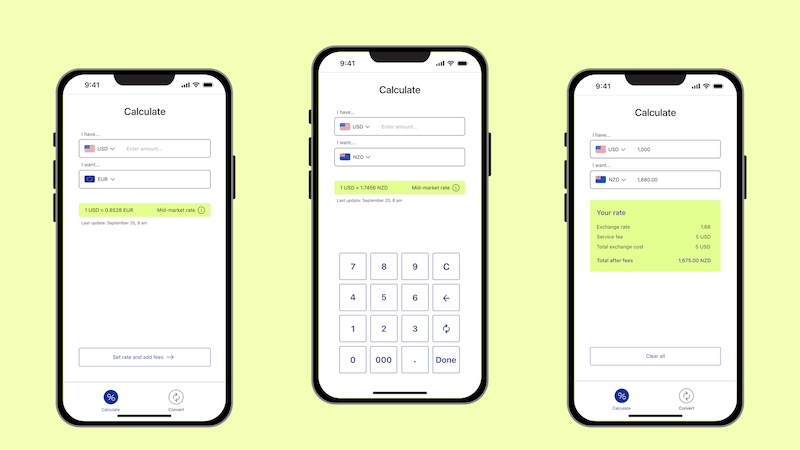
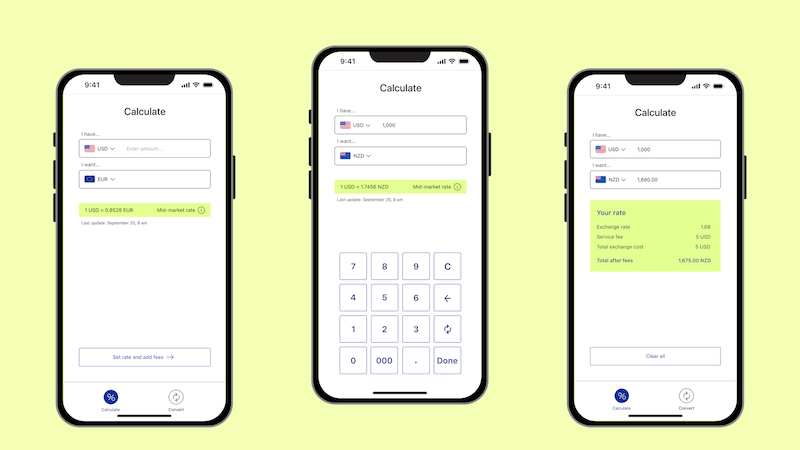
project images
added images & filled out design phase content

diff --git a/src/projects/project-one.html b/src/projects/project-one.html
@@ -41,7 +41,7 @@
            <picture>
             <source media="(min-width: 1920px)" srcset="../images/projects/project1/project-one-large.png 1x, ../images/projects/project1/project-one-xlarge.png 2x"/>
             <source media="(min-width: 768px)" srcset="../images/projects/project1/project-one-medium.png 1x, ../images/projects/project1/project-one-large.png 2x"/>
-            <img src="path/image-name-small.png" srcset="../images/projects/project1/project-one-small.png 1x, ../images/projects/project1/project-one-medium.png 2x"
+            <img src="../images/projects/project1/project-one-small.png" srcset="../images/projects/project1/project-one-small.png 1x, ../images/projects/project1/project-one-medium.png 2x"
               alt="Project one hero image"
               loading="lazy"
               class="w-full h-auto"
@@ -119,7 +119,7 @@
 
           <div class="subsection space-y-4">
             <h4>Empathy Map</h4>
-            <p>One of the ways I tried to understand...</p>
+            <p>Created an empathy map to capture what users say, think, feel, and do when navigating currency exchange. Patterns of uncertainty, mental math frustration, and fear of hidden fees directly informed the app’s focus on clarity and cost transparency.</p>
               <picture class="lightbox-trigger">
                 <source media="(min-width: 1920px)" srcset="../images/projects/project1/empathy-map-large.png 1x, ../images/projects/project1/empathy-map-xlarge.png 2x"/>
                 <source media="(min-width: 768px)" srcset="../images/projects/project1/empathy-map-medium.png 1x, ../images/projects/project1/empathy-map-large.png 2x"/>
@@ -131,7 +131,7 @@
           </div>
           <div class="subsection space-y-4">
             <h4>User Flow</h4>
-            <p>Upon opening the app...</p>
+            <p>Mapped the core decision path from app entry to conversion completion. The flow addresses two critical questions: “Is my currency available?” and “Do I understand the mid-market rate?” — reducing friction and uncertainty before users proceed.</p>
               <picture class="lightbox-trigger">
                 <source media="(min-width: 1920px)" srcset="../images/projects/project1/user-flow-large.png 1x, ../images/projects/project1/user-flow-xlarge.png 2x"/>
                 <source media="(min-width: 768px)" srcset="../images/projects/project1/user-flow-medium.png 1x, ../images/projects/project1/user-flow-large.png 2x"/>
@@ -148,7 +148,7 @@
           <h3 id="design-phase">Design Phase</h3>
           <div class="subsection space-y-4">
             <h4 id="sketches">Sketches</h4>
-            <p>The process below begins...</p>
+            <p>Started with rapid hand-drawn sketches to map core screens and test information hierarchy. Early exploration allowed for fast iteration before committing to higher-fidelity designs.</p>
               <picture class="lightbox-trigger">
                 <source media="(min-width: 1920px)" srcset="../images/projects/project1/sketches-large.png 1x, ../images/projects/project1/sketches-xlarge.png 2x"/>
                 <source media="(min-width: 768px)" srcset="../images/projects/project1/sketches-medium.png 1x, ../images/projects/project1/sketches-large.png 2x"/>
@@ -161,7 +161,8 @@
 
           <div class="subsection space-y-4">
             <h4 id="wireframes">Wireframes & Prototypes</h4>
-            <p>I brought my idea to an interactive...</p>
+            <p>Developed interactive wireframes in Figma for both core experiences: Convert and Calculate. The prototypes included currency selection, fee inputs, mid-market rate education, and ranked transfer options.</p>
+            <p>These wireframes went through multiple iterations and were used in moderated usability testing sessions. The screens shown reflect the latest refined versions.</p>
               <picture class="lightbox-trigger">
                 <source media="(min-width: 1920px)" srcset="../images/projects/project1/convert-wireframe-large.png 1x, ../images/projects/project1/convert-wireframe-xlarge.png 2x"/>
                 <source media="(min-width: 768px)" srcset="../images/projects/project1/convert-wireframe-medium.png 1x, ../images/projects/project1/convert-wireframe-large.png 2x"/>
@@ -181,7 +182,10 @@
           </div>
           <div class="subsection space-y-4">
             <h4 id="usability-study">Usability Study</h4>
-            <p>I conducted a user testing session...</p>
+            <p>Conducted two rounds of moderated usability testing with four participants using interactive wireframe prototypes.</p>
+            <p>Participants were asked to complete two core tasks per flow while thinking aloud. I observed silently to understand their natural decision-making process, then followed up with targeted questions about moments of confusion or hesitation.</p>
+            <p>After the first round, I redesigned key screens and tested the revised versions with the same participants using identical tasks. Comparing reactions helped identify where clarity improved and where friction remained.</p>
+            <p>Final wireframes were completed only after validation — visual design was intentionally introduced last to ensure usability before aesthetics.</p>
           </div>
         </div>
       </section>
@@ -190,15 +194,36 @@
       <section class="results space-y-8">
         <h2 id="results">Results</h2>
         
-        <div class="iterations mt-8 space-y-10">
-          <h3>Major Design Iterations</h3>
+        <div class="decisions mt-8 space-y-10">
+          <h3>Key Product Decisions</h3>
           <div class="subsection space-y-4">
-            <h4>Iteration 1. Choosing MVP over 'the perfect app'</h4>
-            <p>Content here</p>
+            <h4>Decision 1: Prioritizing MVP Over Feature Expansion</h4>
+            <p>During interviews, users requested expanded features — such as safety ratings for exchange locations, translation support at kiosks, and nearby exchange maps.</p>
+            <p>While valuable, these ideas introduced significant scope complexity. Through synthesis, I identified the core unmet need: trust in exchange rates and final totals.</p>
+            <p>I intentionally narrowed the product to two essential experiences — Convert and Calculate — focusing on transparency and clarity first.</p>
+            <p>Rather than building a feature-heavy ecosystem, I prioritized solving one problem exceptionally well: making the true cost of currency exchange immediately understandable.</p>
+            <p>This MVP approach supports faster iteration, clearer positioning, and a stronger foundation for future expansion.</p>
           </div>
           <div class="subsection space-y-4">
-            <h4>Iteration 2. Progress bar</h4>
-            <p>Content here</p>
+            <h4>Decision 2: Replacing the Progress Bar with Stronger Defaults</h4>
+            <p>After initial testing, I introduced a progress bar to clarify how many steps remained in the conversion flow.</p>
+            <p>However, in the second round of testing, 3 out of 4 participants did not notice the progress indicator, and the fourth did not rely on it to complete tasks. The addition did not meaningfully improve confidence.</p>
+            <p>Instead of adding navigational cues, I shifted focus to improving input clarity.</p>
+            <p>Key refinements:</p>
+             <ul class="list-disc pl-6 space-y-1 text-base font-light text-slate-600 leading-relaxed">
+              <li>Pre-selected default currencies with visible flags (replacing empty placeholders)</li>
+              <li>Pre-filled the amount field with a realistic default (1,000)</li>
+            </ul>
+            <p>Testing revealed that users respond more confidently to editable defaults than to empty inputs. A visible starting state signals what action to take next more effectively than instructional text.</p>
+            <p>The final design removed the progress bar entirely and relied on stronger visual affordances instead.</p>
+              <picture class="lightbox-trigger">
+                <source media="(min-width: 1920px)" srcset="../images/projects/project1/progress-bar-large.png 1x, ../images/projects/project1/progress-bar-xlarge.png 2x"/>
+                <source media="(min-width: 768px)" srcset="../images/projects/project1/progress-bar-medium.png 1x, ../images/projects/project1/progress-bar-large.png 2x"/>
+                <img src="../images/projects/project1/progress-bar-small.png" srcset="../images/projects/project1/progress-bar-small.png 1x, ../images/projects/project1/progress-bar-medium.png 2x"
+                  alt="Wireframe of the calculate page"
+                  loading="lazy"
+                  class="w-full h-auto rounded-lg shadow-md"/>
+              </picture>
           </div>
         </div>
 
@@ -212,12 +237,21 @@
 
         <div class="subsection space-y-4 mt-10">
           <h4>Product Successes</h4>
-          <p>text here</p>
+          <ul class="list-disc pl-6 space-y-1 text-base font-light text-slate-600 leading-relaxed">
+            <li>Users clearly understood the distinction between mid-market rate and final amount after fees</li>
+            <li>Default currency and amount inputs improved task completion confidence</li>
+            <li>Ranking transfer methods by total cost reduced comparison friction</li>
+            <li>Transparent fee breakdown increased trust and reduced cross-checking behavior</li>
+            <li>The Calculate feature supported quick, in-the-moment decisions abroad</li>
+          </ul>
         </div>
 
         <div class="subsection space-y-4">
           <h4>What I Learned</h4>
-          <p>Product feedback will always surprise...</p>
+          <p>User feedback will always challenge your assumptions.</p>
+          <p>Features that seem helpful — like progress indicators or expanded functionality — don’t always solve the real problem. In this case, clarity improved not by adding more, but by simplifying inputs and strengthening default states.</p>
+          <p>Testing before adding visual polish reinforced an important principle: usability must be validated before aesthetics are layered on.</p>
+          <p>Most importantly, designing for financial decisions isn’t about providing more information — it’s about building trust through transparency, simplicity, and clear signals.</p>
         </div>
       </section>
     </div>

diff --git a/src/index.html b/src/index.html
@@ -41,15 +41,25 @@
           <picture>
             <source
               media="(min-width: 1920px)"
-              srcset="./images/profile/header-img-large.png"
+              srcset="
+                ./images/profile/header-img-large.png  1x,
+                ./images/profile/header-img-xlarge.png 2x
+              "
             />
             <source
               media="(min-width: 768px)"
-              srcset="./images/profile/header-img-large.png"
+              srcset="
+                ./images/profile/header-img-medium.png 1x,
+                ./images/profile/header-img-large.png  2x
+              "
             />
             <img
               src="./images/profile/header-img-small.png"
-              alt="header image"
+              srcset="
+                ./images/profile/header-img-small.png  1x,
+                ./images/profile/header-img-medium.png 2x
+              "
+              alt="Header image"
               loading="lazy"
               class="w-full h-auto"
             />

diff --git a/src/js/projects.js b/src/js/projects.js
@@ -5,7 +5,7 @@ const projects = [
     title: "Currency exchange app",
     description:
       "An app that helps global travelers find the current exchange rates between two currencies.",
-    image: "images/profile/projectimage.png",
+    image: "images/profile/project-one.png",
     alt: "Project One case study preview",
     url: "projects/project-one.html",
   },

diff --git a/src/output.css b/src/output.css
@@ -208,6 +208,9 @@
   .pointer-events-none {
     pointer-events: none;
   }
+  .visible {
+    visibility: visible;
+  }
   .sr-only {
     position: absolute;
     width: 1px;
